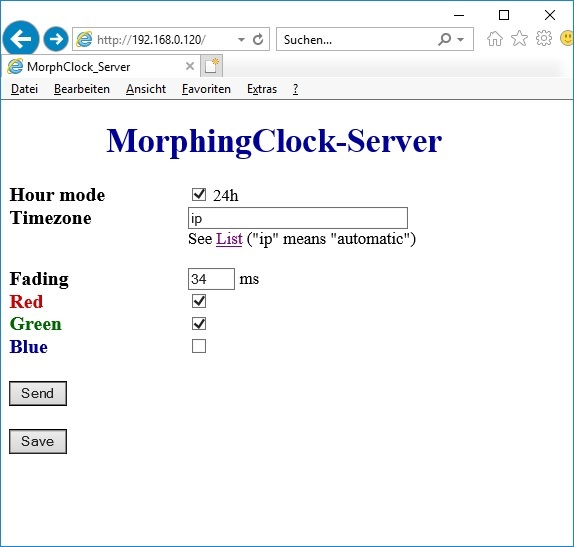
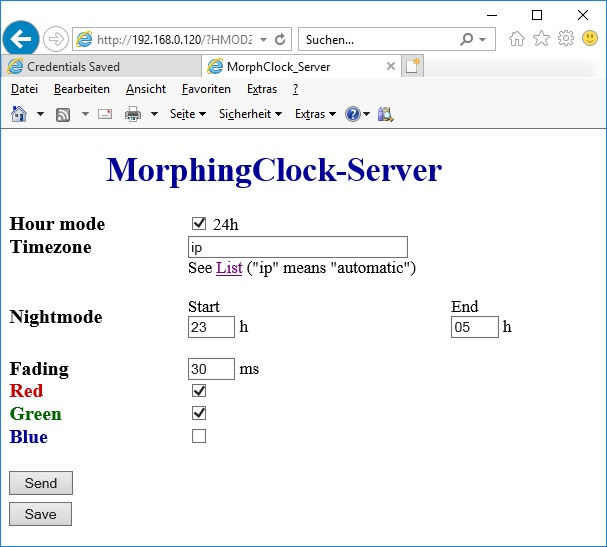
Nightmode for ESP8266 too (only shut off at night, no dimming) README.md adapted

diff --git a/Latest/MorphingClock/WTAClient.cpp b/Latest/MorphingClock/WTAClient.cpp
@@ -2,7 +2,7 @@
 #include <ESP8266WiFi.h>
 #include <DNSServer.h>
 #include <ESP8266WebServer.h>
-#include <WiFiManager.h> //https://github.com/tzapu/WiFiManager
+#include <WiFiManager.h> //https://github.com/alanswx/ESPAsyncWiFiManager
 #include <ESP8266HTTPClient.h>
 #include "TinyFont.h"
 

diff --git a/README.md b/README.md
@@ -11,13 +11,13 @@ Read what this code primary was all about on [Instructable](https://www.instruct
 
 **CHANGES BY SNOWHEAD**
 
-- Changed from NTP to HTTP time request (via ESP82666HTTPClient library)
+- Changed from NTP to HTTP time request (via ESP8266HTTPClient library)
 - No further mess around with timezones and DST settings. The default timezone "ip" (case sensitive!) will force the server to determine your location and DST state by analyzing your public IP. Only if you're connected via a foreign proxy to the internet you will have to set your local timezone regarding the list on [WTA](http://worldtimeapi.org/api/timezones). DST settings will always be detected automatically.
 - Digits will not further morphed digit by digit but all in parallel.
 - Easier selection of digit color.
 - Patch for weak ESP8266-12E included
-- Night-Mode (ESP32 only), of "Start" or "End" hour are different from zero, the displays brighness will be reduced between this both times to the percentage set in "Brightness"
-- permanent accessible Web-Interface for live change of the settings (military, timezone, color, fadingspeed and (ESP32 only) nightmode and brightness), settings take only effect after clicking button "Send", clicking the button "Save" stores the changes permanent in the clock
+- Night-Mode (ESP32 only), if "Start" or "End" hour are different from zero, the displays brighness will be reduced between this both times to the percentage set in "Brightness"
+- permanent accessible Web-Interface for live change of the settings (military, timezone, color, fadingspeed, (ESP32 only) nightmode and brightness), settings take only effect after clicking button "Send", clicking the button "Save" stores the changes permanent in the clock
 
 Click photo for a quick demo.
 
@@ -25,7 +25,7 @@ original: [![Morphing Clock](https://img.youtube.com/vi/i0M6F4wRxGc/0.jpg)](http
 
 modified: [![Morphing Clock](https://img.youtube.com/vi/GLg5dzmM7W4/0.jpg)](https://youtu.be/GLg5dzmM7W4)
 
-Because the ESP8266 is not able to dimm the brightness by PWM (trying this will produce an ugly flicker) the webinterface differs for ESP32 and ESP8266. The ESP8266 has no nightmode, cann not reduce the brightness and must use all colors in full brightness.
+Because the ESP8266 is not able to dimm the brightness by PWM (trying this will produce an ugly flicker) the webinterface differs for ESP32 and ESP8266. The ESP8266 can set the display only to off in nightmode, can in normal state not reduce the brightness and must use all colors in full brightness.
 
    ESP32:&nbsp;&nbsp;&nbsp;&nbsp;![MorphingClock](images/IF_32.jpg) 
 
